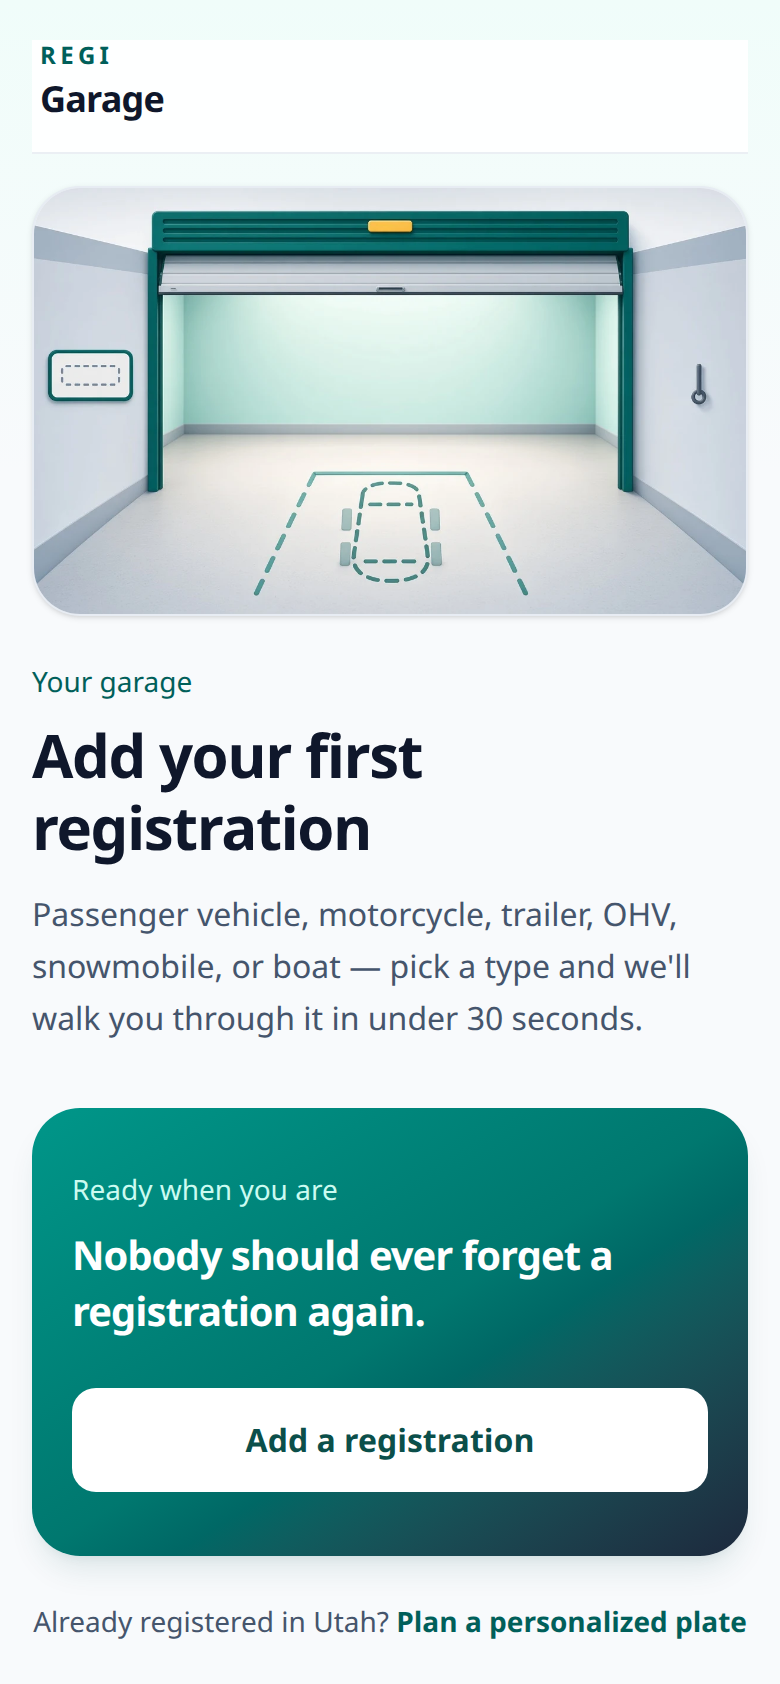
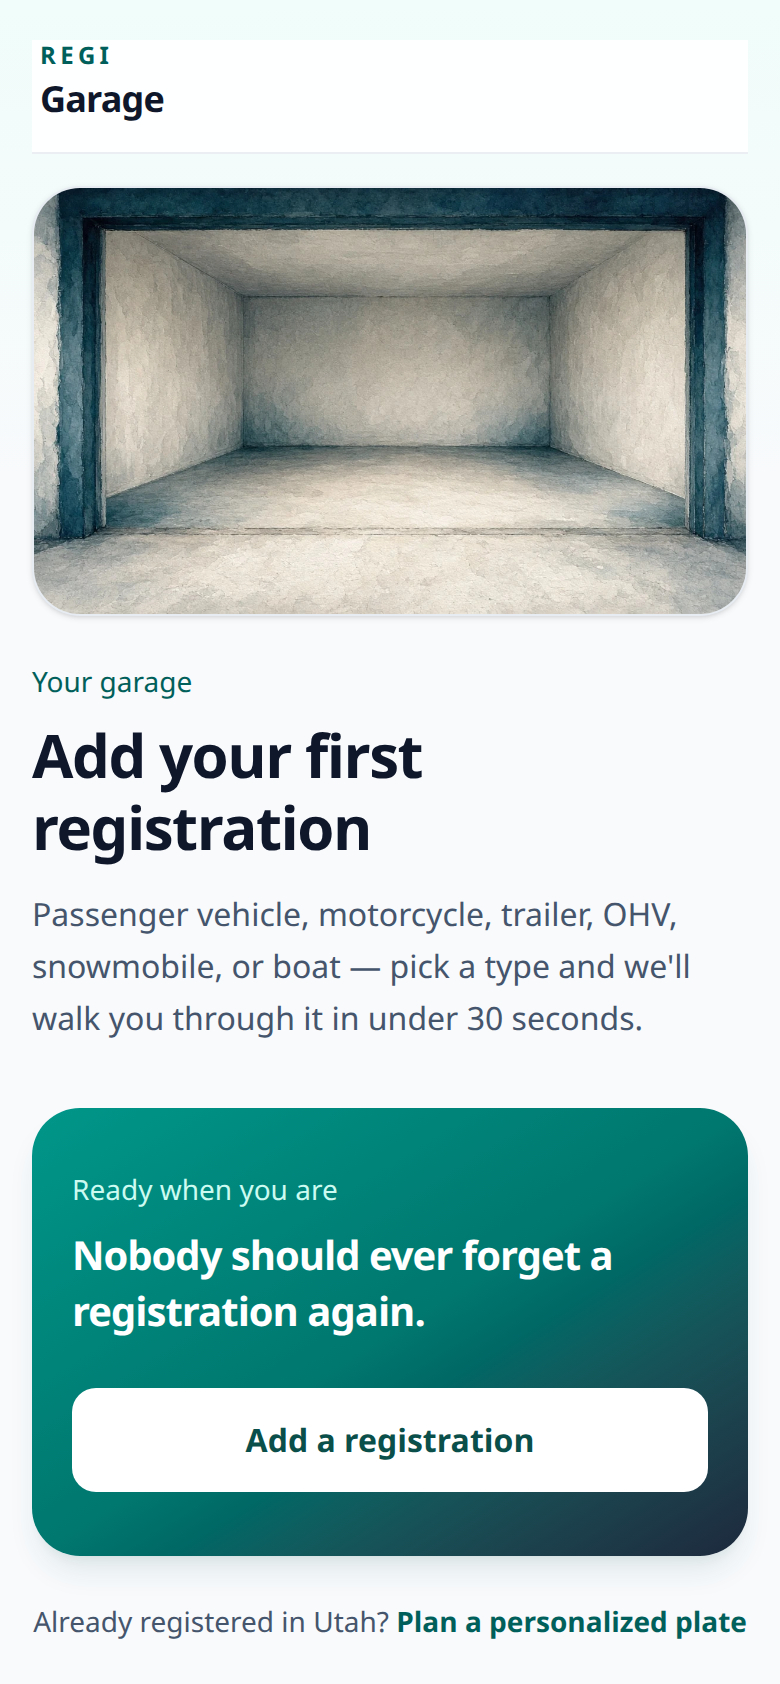
fix: softer painted empty-bay illustration (Derek art direction)
Replace the dashed-stall / ghost-car raster with a painted open bay —
light watercolor and dusk lamp variants as WebP. Same first-run copy
and Add a registration CTA. Recapture harness evidence.

Changed region(s): [[0.0308, 0.0926, 0.9538, 0.3705]]

diff --git a/src/components/garage/GarageEmptyIllustration.tsx b/src/components/garage/GarageEmptyIllustration.tsx
@@ -6,8 +6,8 @@ export const EMPTY_GARAGE_ART = {
 const ALT = "Empty garage bay ready for a first registration";
 
 /**
- * Raster empty-garage art (WebP). REGI UI illustrations are never SVG.
- * Light + dark frames; `.dark` shows the dusk bay.
+ * Soft painted empty-bay WebP (never SVG). Light + dark; `.dark` shows dusk.
+ * No dashed stall lines, ghost vehicle, or wall doodads.
  */
 export function GarageEmptyIllustration({
   className = "",

diff --git a/docs/evidence/garage-empty-state/README.md b/docs/evidence/garage-empty-state/README.md
@@ -1,8 +1,9 @@
 # Garage empty-state illustration evidence
 
-Screenshots of `GarageEmptyState` (first-run garage, no vehicles) with
-photoreal empty-bay **WebP** art (not SVG). `/garage` is auth-gated, so these
-were captured from the Vite harness that mounts the same component.
+Screenshots of `GarageEmptyState` (first-run garage, no vehicles) with a
+**soft painted** empty-bay WebP (not SVG, not the rejected dashed-stall /
+ghost-car icon look). `/garage` is auth-gated, so these were captured from
+the Vite harness that mounts the same component.
 
 Regenerate:
 
@@ -12,10 +13,11 @@ npm run capture:garage-empty-evidence
 
 What this evidence is meant to show:
 
-- Raster empty-garage illustration (`/images/garage/empty-bay-{light,dark}.webp`)
+- Painted open-bay raster (`/images/garage/empty-bay-{light,dark}.webp`)
+- No dashed stall lines, ghost sedan, or wall doodads
 - Heading **Add your first registration**
 - Primary CTA **Add a registration** (`data-testid="add-first-registration-button"`)
-- Light and dark treatments (separate WebP per theme)
+- Light and dark treatments
 - Mobile + desktop widths
 
 Staging walk (after this branch is deployed to `regi-staging`): sign in as
@@ -26,9 +28,9 @@ Use this harness, or a walk account with zero registrations.
 | File | What it shows |
 | --- | --- |
 | `empty_garage_light.png` | Full first-run empty state, light theme |
-| `empty_garage_illustration_light.png` | Empty-bay WebP crop, light |
+| `empty_garage_illustration_light.png` | Painted empty-bay crop, light |
 | `empty_garage_cta_light.png` | Add a registration CTA |
 | `empty_garage_dark.png` | Full first-run empty state, dark theme |
-| `empty_garage_illustration_dark.png` | Empty-bay WebP crop, dark |
+| `empty_garage_illustration_dark.png` | Painted empty-bay crop, dark |
 | `empty_garage_light_mobile.png` | Phone-width light empty state |
 | `empty_garage_light_desktop.png` | Desktop-width light empty state |
